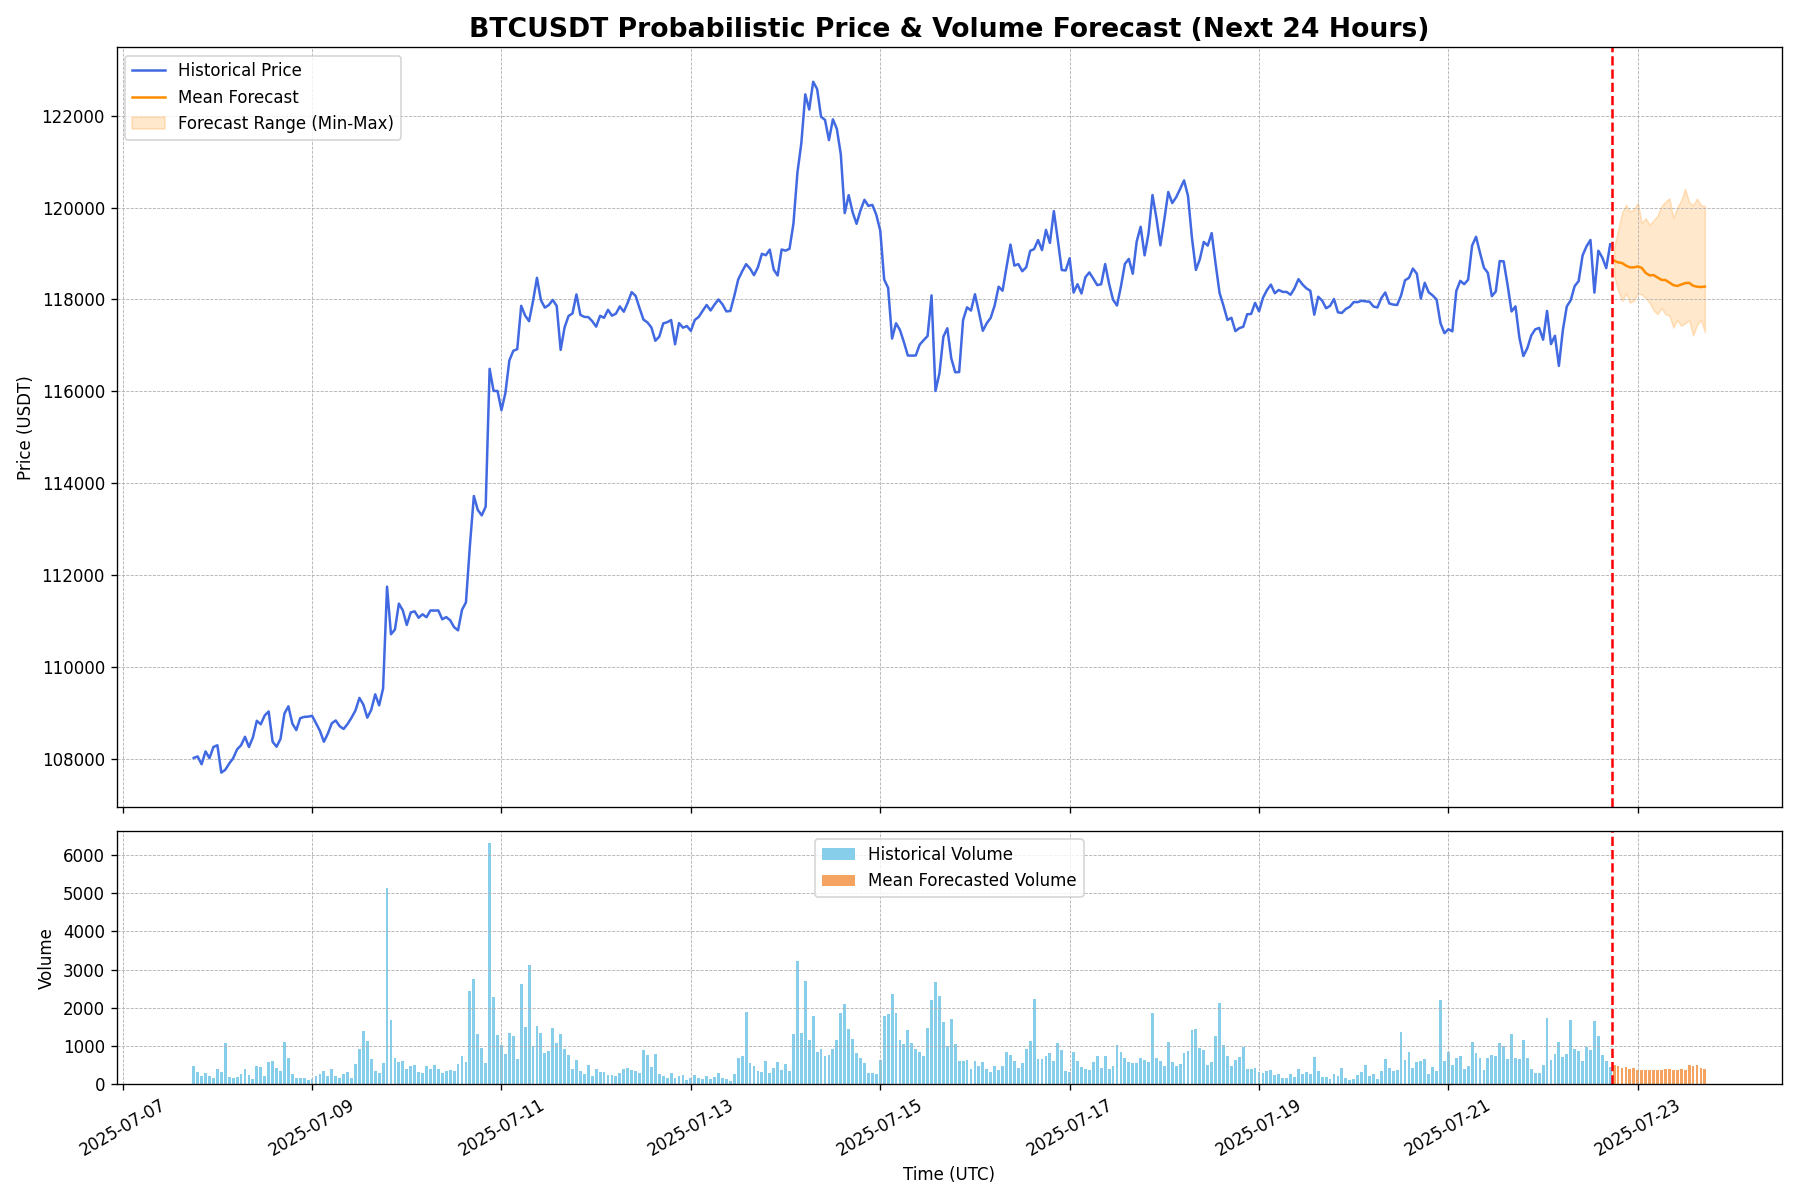
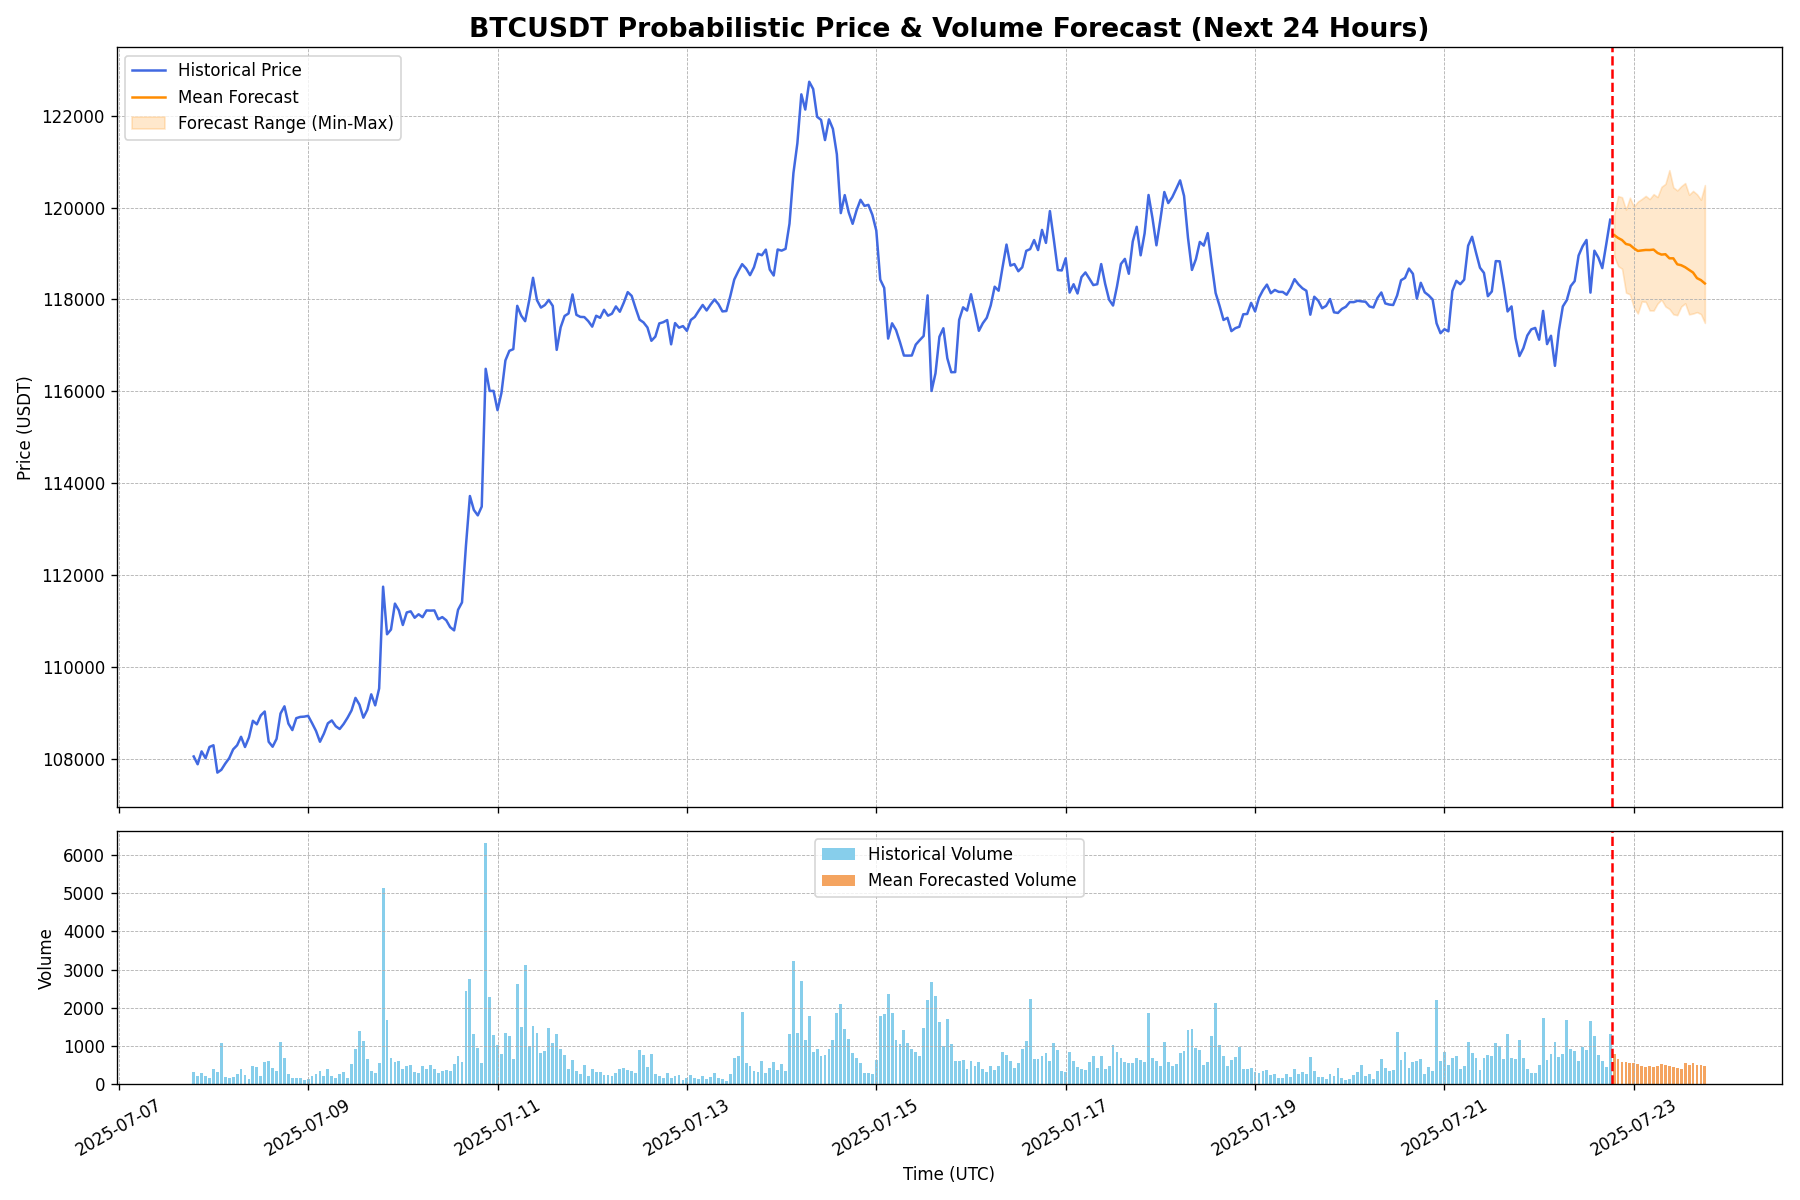
Auto-update forecast for 2025-07-22 19:05 UTC

diff --git a/index.html b/index.html
@@ -22,19 +22,19 @@
         <section id="live-dashboard">
             <h2>Live BTC/USDT Forecast Dashboard</h2>
             <div class="metadata">
-                <span>Last Updated (UTC): <strong id="update-time">2025-07-22 18:05:54</strong></span>
+                <span>Last Updated (UTC): <strong id="update-time">2025-07-22 19:05:54</strong></span>
                 <span>Data Source: Binance | Interval: 1-Hour</span>
             </div>
 
             <div class="metrics-container">
                 <div class="metric-card">
                     <h3>Upside Probability (Next 24h)</h3>
-                    <p class="metric-value" id="upside-prob">10.0%</p>
+                    <p class="metric-value" id="upside-prob">6.7%</p>
                     <div class="metric-desc">The model's confidence that the price in 24 hours will be higher than the last known price.</div>
                 </div>
                 <div class="metric-card">
                     <h3>Volatility Amplification (Next 24h)</h3>
-                    <p class="metric-value" id="vol-amp-prob">13.3%</p>
+                    <p class="metric-value" id="vol-amp-prob">10.0%</p>
                     <div class="metric-desc">The probability that predicted volatility over the next 24h will exceed recent historical volatility.</div>
                 </div>
             </div>
